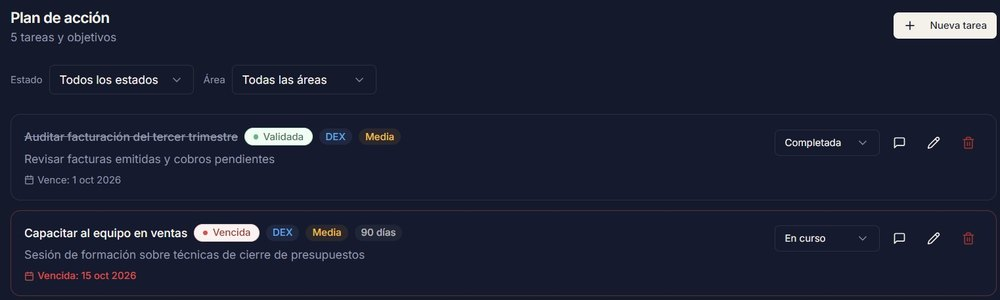
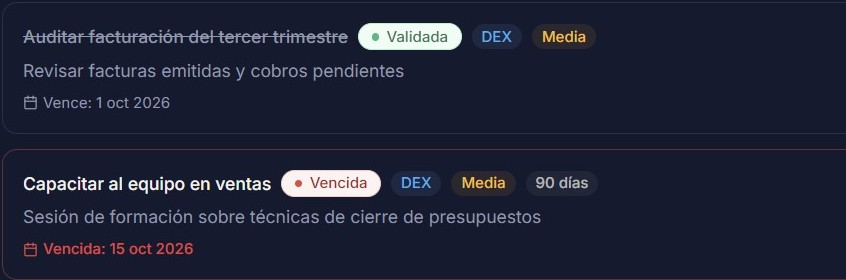
Hero: capturas del Portal más legibles
Claude-Session: https://claude.ai/code/session_01GadXSXADrU7ypZbKLtjD17

diff --git a/index.html b/index.html
@@ -1327,24 +1327,25 @@ dialog::backdrop{background:rgba(11,11,13,.6);backdrop-filter:blur(3px)}
 .logo-full .p{font-size:.44rem;letter-spacing:.42em;margin-right:-.42em;margin-top:6px;opacity:.8;font-weight:500}
 .f2-brand .logo-full{align-items:center}
 /* ===== Hero: el Portal DEX como herramienta ===== */
-.hero-visual{margin:0;min-width:0;display:grid;gap:14px}
-.hv-stage{position:relative;padding:0 0 4px}
-.hv-win{border-radius:12px;overflow:hidden;border:1px solid rgba(255,255,255,.12);background:#0F1424;box-shadow:0 40px 80px -40px rgba(0,0,0,.75)}
-.hv-bar{display:flex;align-items:center;gap:6px;padding:9px 12px;background:#1A2033;border-bottom:1px solid rgba(255,255,255,.08)}
-.hv-bar i{width:8px;height:8px;border-radius:50%;background:rgba(255,255,255,.18)}
-.hv-bar span{margin-left:10px;font-size:.66rem;letter-spacing:.04em;color:rgba(255,255,255,.55);background:rgba(255,255,255,.06);padding:3px 10px;border-radius:999px;white-space:nowrap;overflow:hidden;text-overflow:ellipsis}
+.hero-grid{grid-template-columns:minmax(0,1.08fr) minmax(0,.92fr)}
+.hero-visual{margin:0;min-width:0;display:grid;gap:16px}
+.hv-stage{position:relative;padding-bottom:6px}
+.hv-win{position:relative;border-radius:12px;overflow:hidden;border:1px solid rgba(255,255,255,.14);background:#161B2E;box-shadow:0 40px 90px -40px rgba(0,0,0,.8)}
+.hv-bar{display:flex;align-items:center;gap:6px;padding:9px 12px;background:#1E2438;border-bottom:1px solid rgba(255,255,255,.08)}
+.hv-bar i{width:9px;height:9px;border-radius:50%;background:rgba(255,255,255,.2)}
+.hv-bar span{margin-left:10px;font-size:.7rem;color:rgba(255,255,255,.6);background:rgba(255,255,255,.07);padding:3px 12px;border-radius:999px;white-space:nowrap;overflow:hidden;text-overflow:ellipsis}
 .hv-win img,.hv-card img{display:block;width:100%;height:auto}
-.hv-card{position:relative;border-radius:10px;overflow:hidden;border:1px solid rgba(255,255,255,.14);box-shadow:0 30px 60px -30px rgba(0,0,0,.85),0 0 0 1px rgba(0,0,0,.2)}
-.hv-score{width:92%;margin:-9% 0 0 -6%;z-index:2}
-.hv-plan{width:82%;margin:-4% 0 0 auto;margin-right:-5%;z-index:3}
-.hv-tag{position:absolute;z-index:4;font-size:.68rem;font-weight:600;letter-spacing:.06em;color:#0B0B0D;background:var(--brass);padding:6px 10px;border-radius:999px;box-shadow:0 8px 20px -8px rgba(0,0,0,.6);white-space:nowrap}
-.hv-t1{left:-4%;top:31%}
-.hv-t2{right:4%;bottom:-12px}
-.hero-visual figcaption{font-size:.84rem;color:var(--band-2);line-height:1.5;max-width:46ch}
+.hv-card{position:relative;border-radius:12px;overflow:hidden;border:1px solid rgba(255,255,255,.16);background:#161B2E;box-shadow:0 30px 70px -30px rgba(0,0,0,.9)}
+.hv-main{width:100%}
+.hv-plan{width:84%;margin:-3% 0 0 auto;margin-right:-6%;z-index:2}
+.hv-tag{position:absolute;z-index:3;font-size:.7rem;font-weight:600;letter-spacing:.05em;color:#0B0B0D;background:var(--brass);padding:6px 11px;border-radius:999px;box-shadow:0 8px 20px -8px rgba(0,0,0,.6);white-space:nowrap}
+.hv-t1{right:18px;top:-13px}
+.hv-t2{left:4%;bottom:-20px}
+.hero-visual figcaption{font-size:.86rem;color:var(--band-2);line-height:1.5;max-width:48ch}
 .hero-visual figcaption b{color:var(--band-fg);font-weight:600}
-@media (max-width:1100px){.hv-score{margin-left:-2%}.hv-plan{margin-right:-1%}.hv-t1{left:0}.hv-t2{right:0}}
-@media (max-width:900px){.hero-visual{max-width:600px;margin-top:8px}.hv-score{width:96%;margin-left:0}.hv-plan{width:88%;margin-right:0}}
-@media (max-width:520px){.hv-plan,.hv-t2{display:none}.hv-score{width:100%;margin:-6% 0 0}.hv-t1{top:auto;bottom:-6px;left:10px}}
+@media (max-width:1180px){.hv-plan{margin-right:0}}
+@media (max-width:900px){.hero-grid{grid-template-columns:1fr}.hero-visual{max-width:620px;margin-top:8px}}
+@media (max-width:520px){.hv-plan{width:100%;margin:-2% 0 0}.hv-tag{display:none}}
 </style>
 
 </head>
@@ -1404,10 +1405,9 @@ dialog::backdrop{background:rgba(11,11,13,.6);backdrop-filter:blur(3px)}
       <div class="hv-stage">
         <div class="hv-win hv-main">
           <div class="hv-bar" aria-hidden="true"><i></i><i></i><i></i><span>portal.dexdireccionygestion.com</span></div>
-          <img src="assets/portal-clinica.jpg" width="1400" height="497" alt="Portal DEX: ficha de una clínica con sus pestañas de datos mensuales, informes y DEX Score, plan de acción, comunicación y documentos">
+          <img src="assets/portal-dex-score.jpg" width="906" height="352" alt="DEX Score en el Portal DEX: puntuación global de 75 sobre 100 en septiembre, con rentabilidad, agenda y producción y una recomendación para cada área">
         </div>
-        <div class="hv-card hv-score"><img src="assets/portal-dex-score.jpg" width="1100" height="261" alt="DEX Score de septiembre: 75 sobre 100, con rentabilidad, agenda, producción, equipo y procesos"></div>
-        <div class="hv-card hv-plan"><img src="assets/portal-plan-accion.jpg" width="1000" height="301" alt="Plan de acción con tareas, responsable, prioridad y fecha de vencimiento"></div>
+        <div class="hv-card hv-plan"><img src="assets/portal-plan-accion.jpg" width="846" height="280" alt="Plan de acción en el Portal DEX: tareas con estado, responsable, prioridad y fecha de vencimiento"></div>
         <span class="hv-tag hv-t1" aria-hidden="true">DEX Score mensual</span>
         <span class="hv-tag hv-t2" aria-hidden="true">Plan de acción con fechas</span>
       </div>
